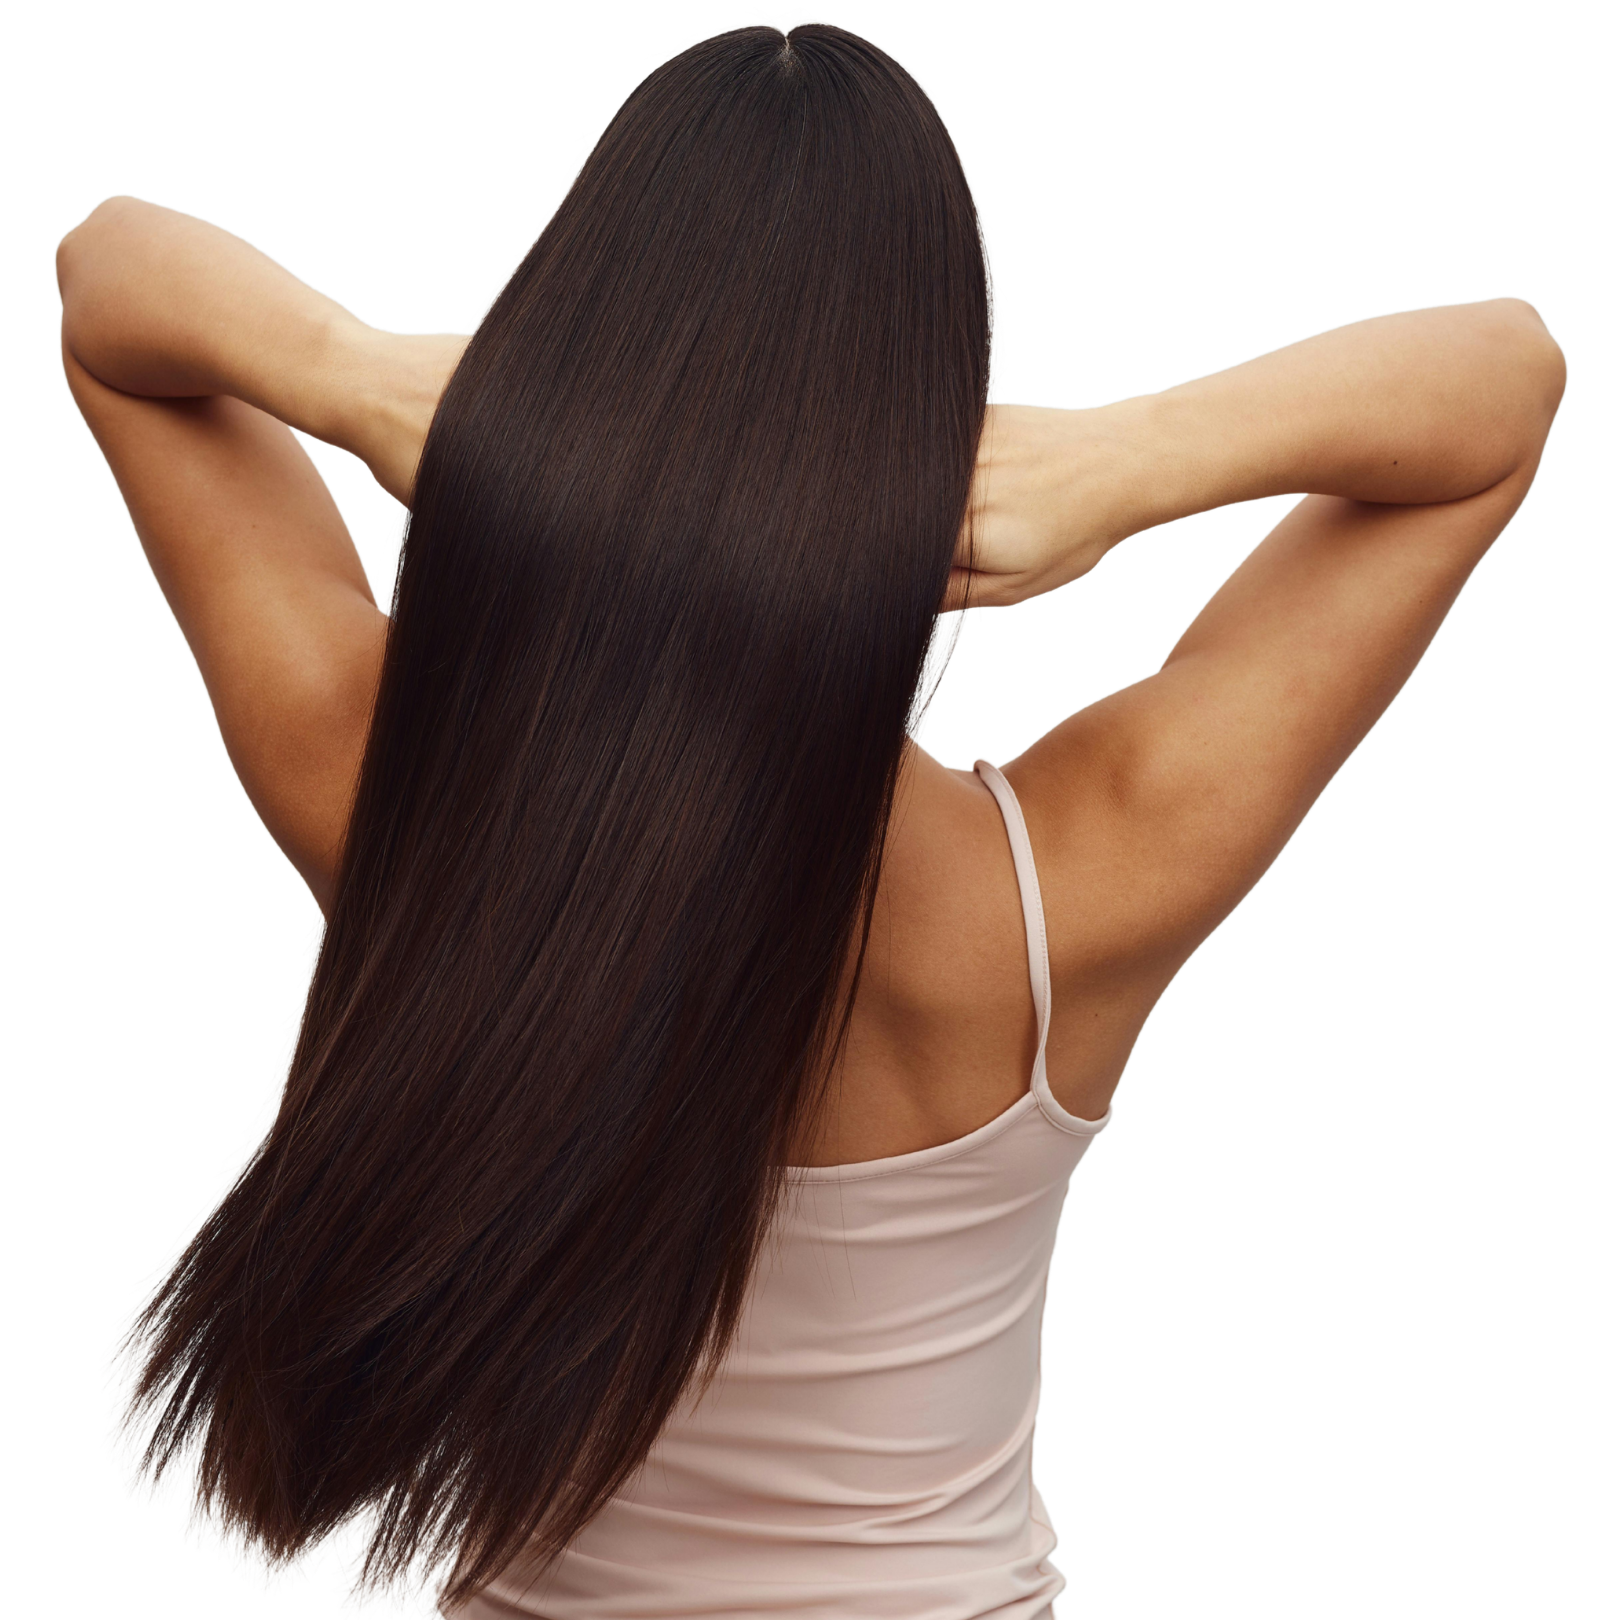
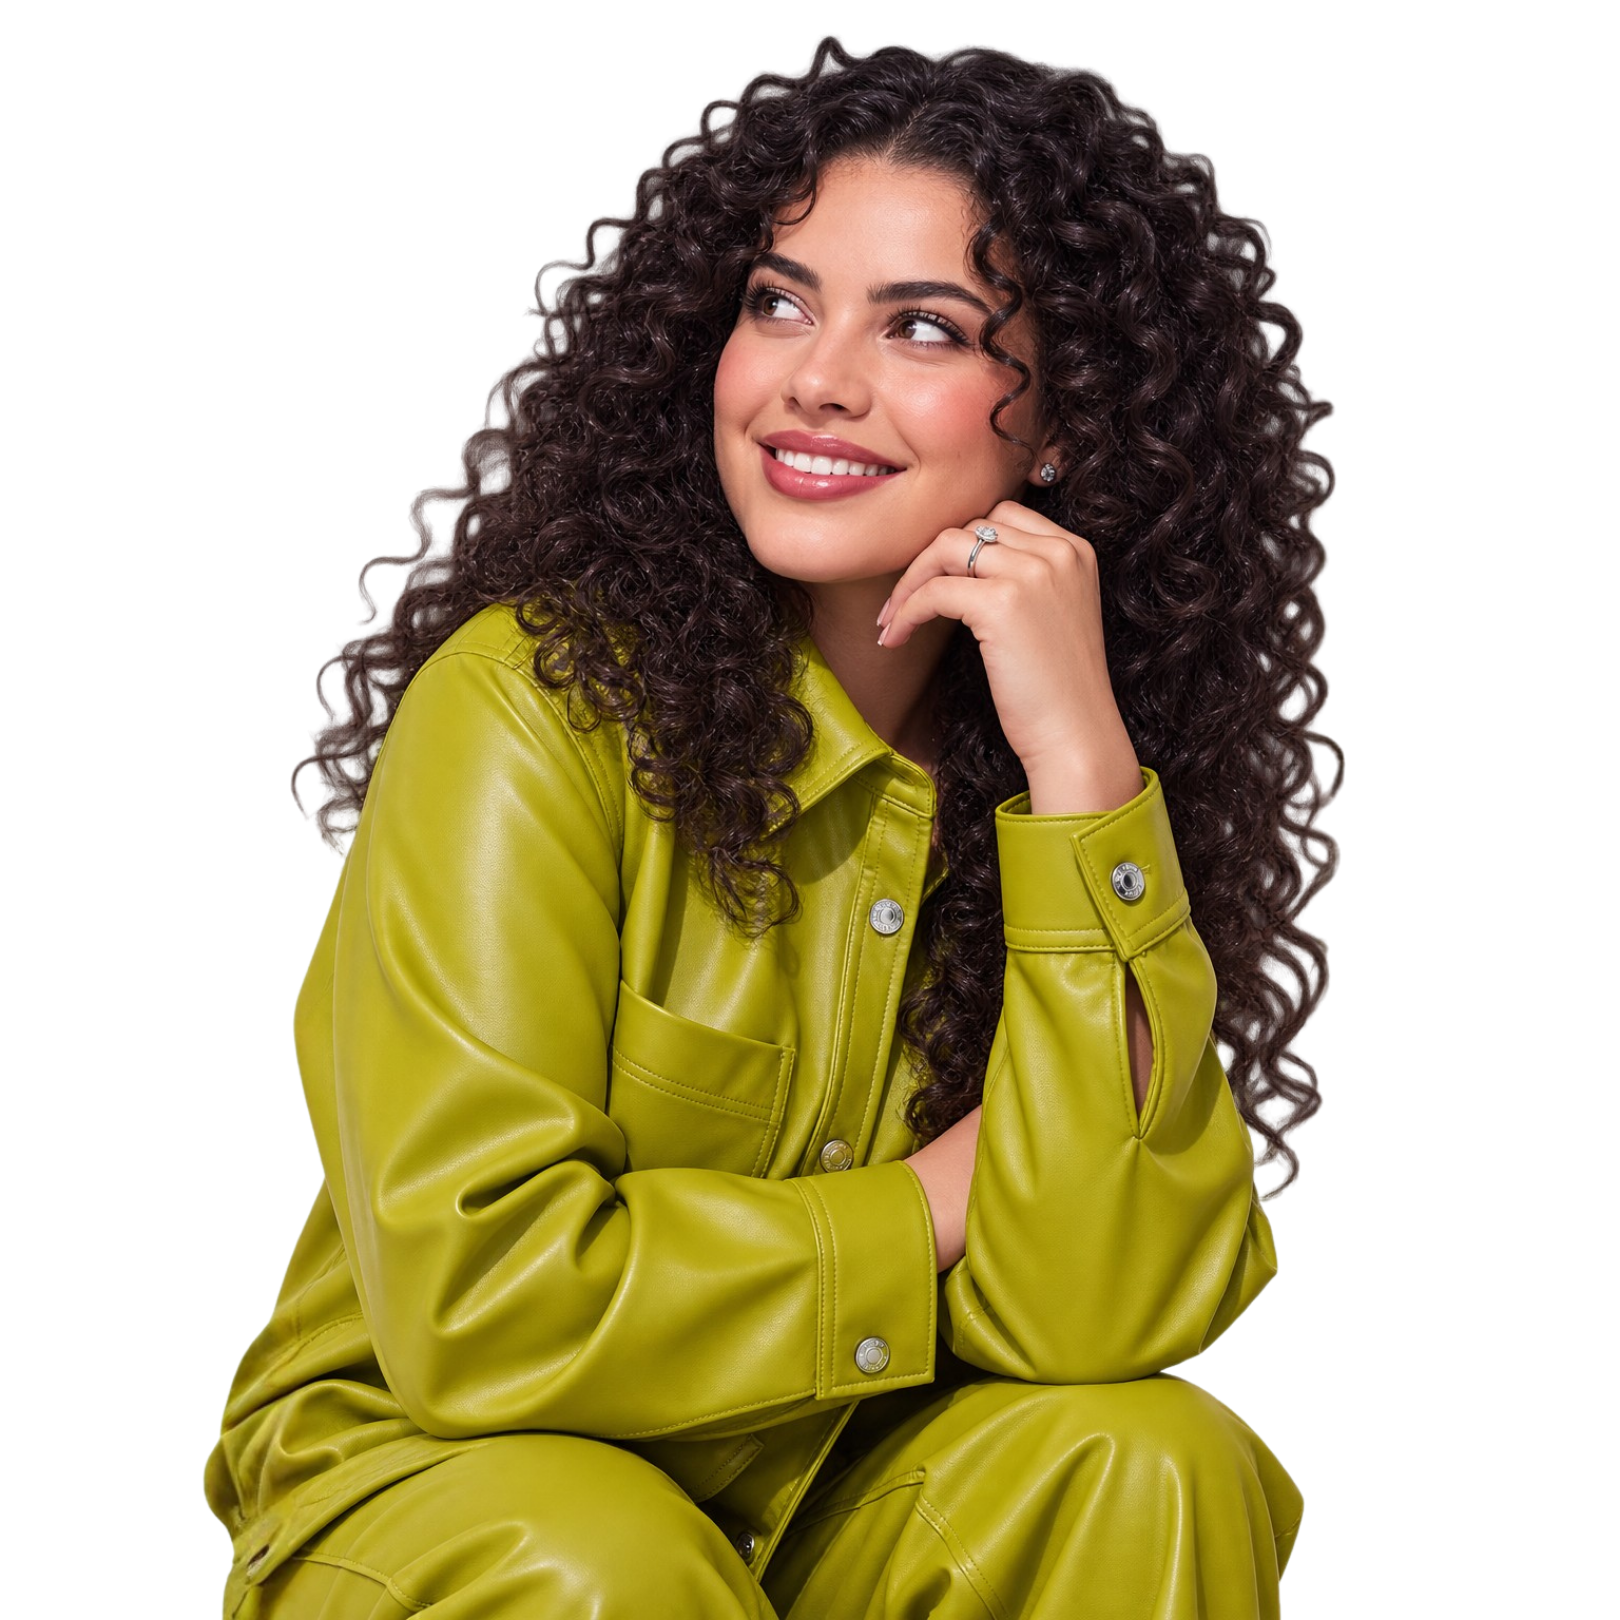
HomePage update

diff --git a/client/src/components/Home/ContactSection.jsx b/client/src/components/Home/ContactSection.jsx
@@ -1,11 +1,14 @@
 import React from "react";
 import { useForm, ValidationError } from "@formspree/react";
 
-export default function ContactSection() {
+export default function ContactSection({ id }) {
   const [state, handleSubmit] = useForm("xrenayve");
 
   return (
-    <section className="min-h-[calc(100vh-88px)] lg:h-[calc(100vh-88px)] w-full py-12 px-4 sm:px-6 lg:py-0 lg:px-0 lg:my-10 flex flex-col justify-center items-center gap-8 lg:gap-10">
+    <section
+      id={id}
+      className="min-h-[calc(100vh-88px)] lg:h-[calc(100vh-88px)] w-full py-12 px-4 sm:px-6 lg:py-0 lg:px-0 lg:my-10 flex flex-col justify-center items-center gap-8 lg:gap-10"
+    >
       <h3 className="text-(--pinkRose) text-2xl sm:text-3xl lg:text-4xl uppercase text-center">
         Comunícate <span className="font-clash-bold">con nosotros</span>
       </h3>
@@ -31,7 +34,7 @@ export default function ContactSection() {
               {/* Nombre */}
               <label
                 htmlFor="name"
-                className="w-full flex flex-col gap-2 text-(--blackBean) text-sm sm:text-base"
+                className="w-full flex flex-col gap-2 text-(--blackBean) text-sm sm:text-base font-ranade-bold"
               >
                 Nombre
                 <input
@@ -40,14 +43,14 @@ export default function ContactSection() {
                   type="text"
                   placeholder="María Perez"
                   required
-                  className="w-full border-b border-(--pinkRose) outline-none bg-transparent py-2"
+                  className="w-full border-b border-(--pinkRose) outline-none bg-transparent py-2 font-ranade-regular"
                 />
               </label>
 
               {/* Teléfono */}
               <label
                 htmlFor="phone"
-                className="w-full flex flex-col gap-2 text-(--blackBean) text-sm sm:text-base"
+                className="w-full flex flex-col gap-2 text-(--blackBean) text-sm sm:text-base font-ranade-bold"
               >
                 Número de teléfono
                 <input
@@ -55,7 +58,7 @@ export default function ContactSection() {
                   name="Phone"
                   placeholder="+58 000 000 00 00"
                   type="tel"
-                  className="w-full border-b border-(--pinkRose) outline-none bg-transparent py-2"
+                  className="w-full border-b border-(--pinkRose) outline-none bg-transparent py-2 font-ranade-regular"
                 />
               </label>
             </div>
@@ -63,7 +66,7 @@ export default function ContactSection() {
             {/* Email */}
             <label
               htmlFor="email"
-              className="flex flex-col gap-2 text-(--blackBean) text-sm sm:text-base"
+              className="flex flex-col gap-2 text-(--blackBean) text-sm sm:text-base font-ranade-bold"
             >
               Email
               <input
@@ -72,7 +75,7 @@ export default function ContactSection() {
                 type="email"
                 placeholder="email@ejemplo.com"
                 required
-                className="w-full border-b border-(--pinkRose) outline-none bg-transparent py-2"
+                className="w-full border-b border-(--pinkRose) outline-none bg-transparent py-2 font-ranade-regular"
               />
             </label>
 
@@ -85,7 +88,7 @@ export default function ContactSection() {
             {/* Mensaje */}
             <label
               htmlFor="message"
-              className="flex flex-col gap-2 text-(--blackBean) text-sm sm:text-base"
+              className="flex flex-col gap-2 text-(--blackBean) text-sm sm:text-base font-ranade-bold"
             >
               Mensaje
               <textarea
@@ -94,7 +97,7 @@ export default function ContactSection() {
                 rows="3"
                 placeholder="Cuéntanos cualquier cosa que quieras saber sobre Blume"
                 required
-                className="w-full border-b border-(--pinkRose) outline-none bg-transparent py-2 resize-none"
+                className="w-full border-b border-(--pinkRose) outline-none bg-transparent py-2 resize-none font-ranade-regular"
               />
             </label>
 

diff --git a/client/src/components/Footer/Footer.jsx b/client/src/components/Footer/Footer.jsx
@@ -1,4 +1,4 @@
-import { Link } from "react-router-dom";
+import { Link, useLocation, useNavigate } from "react-router-dom";
 
 export default function Footer() {
   const footerCategories = [
@@ -9,11 +9,29 @@ export default function Footer() {
     { name: "Diario", slug: "diario" },
   ];
 
+  const navigate = useNavigate();
+  const location = useLocation();
+
+  const handleContactClick = () => {
+    if (location.pathname === "/") {
+      document.getElementById("contact")?.scrollIntoView({
+        behavior: "smooth",
+        block: "start",
+      });
+    } else {
+      navigate("/?scrollTo=contact");
+    }
+  };
+
   return (
     <footer className="w-full bg-(--blackBean) flex flex-col justify-center items-center z-10">
       {/* Banner CTA Superior */}
-      <div className="min-h-[70vh] lg:h-[70vh] w-full bg-(--pinkRose) flex flex-col lg:flex-row justify-between items-center py-12 px-6 sm:px-12 lg:py-0 lg:px-0 overflow-hidden">
-        <div className="flex flex-col justify-center items-center lg:items-start gap-6 text-(--whiteBlume) text-center lg:text-left lg:pl-16 xl:pl-24 w-full lg:w-1/2">
+      <div className="relative min-h-[70vh] lg:h-[70vh] w-full flex flex-col lg:flex-row justify-between items-center pt-12 px-6 sm:px-12 lg:py-0 lg:px-0 overflow-hidden">
+        <img
+          src="/footer/footerbgd.png"
+          className="absolute inset-0 h-full w-full object-cover object-center"
+        />
+        <div className="flex flex-col justify-center items-center lg:items-start gap-6 text-(--whiteBlume) text-center lg:text-left lg:pl-16 xl:pl-24 w-full lg:w-1/2 z-10">
           <h4 className="w-full lg:w-[85%] xl:w-[70%] text-3xl sm:text-4xl lg:text-5xl leading-tight">
             Somos tus aliados para que luzcas espectacular
           </h4>
@@ -21,18 +39,18 @@ export default function Footer() {
             Contáctanos para agendar una cita y conocer más
           </p>
           <div className="w-full lg:w-[85%] xl:w-[70%] mt-2 lg:mt-0">
-            <a
-              href="#contact"
-              className="inline-block px-6 py-3 bg-(--whiteBlume) hover:bg-(--blackBean) text-(--blackBean) hover:text-(--whiteBlume) rounded-xl transition-colors text-sm sm:text-base font-medium"
-            >
+            <button
+              type="button"
+              onClick={handleContactClick}
+              className="inline-block px-6 py-3 bg-(--whiteBlume) hover:bg-(--blackBean) text-(--blackBean) hover:text-(--whiteBlume) rounded-xl transition-colors text-sm sm:text-base font-medium cursor-pointer">
               ¡Escríbenos!
-            </a>
+            </button>
           </div>
         </div>
         <img
           src="/footer/footer.png"
           alt="Footer Banner"
-          className="h-64 sm:h-80 lg:h-full object-cover object-center mt-8 lg:mt-0"
+          className="h-80 md:h-110 lg:h-full object-cover object-center mt-8 lg:mt-0 lg:pt-8 lg:pr-8 z-10"
         />
       </div>
 
@@ -99,7 +117,9 @@ export default function Footer() {
         </div>
 
         <div className="flex flex-col gap-3 sm:gap-5 font-ranade-regular lg:h-60">
-          <h4 className="text-base sm:text-lg font-clash-light">Sobre nosotros</h4>
+          <h4 className="text-base sm:text-lg font-clash-light">
+            Sobre nosotros
+          </h4>
           <ul className="text-xs sm:text-sm space-y-2 lg:space-y-1">
             <li>
               <Link

diff --git a/client/src/pages/HomePage.jsx b/client/src/pages/HomePage.jsx
@@ -1,13 +1,40 @@
-import React from 'react'
+import React, { useEffect } from "react";
+import { useSearchParams } from "react-router-dom";
 
-import Home from '../components/Home/Home'
-import CatalogSection from '../components/Home/CatalogSection'
-import BestSellers from '../components/Home/BestSellers'
-import Beneficios from '../components/Home/Beneficios'
-import AboutSection from '../components/Home/AboutSection'
-import ContactSection from '../components/Home/ContactSection'
+import Home from "../components/Home/Home";
+import CatalogSection from "../components/Home/CatalogSection";
+import BestSellers from "../components/Home/BestSellers";
+import Beneficios from "../components/Home/Beneficios";
+import AboutSection from "../components/Home/AboutSection";
+import ContactSection from "../components/Home/ContactSection";
 
 export default function HomePage() {
+  const [searchParams, setSearchParams] = useSearchParams();
+
+  useEffect(() => {
+    if (searchParams.get("scrollTo") !== "contact") {
+      return;
+    }
+
+    // Esperamos a que el contenido de Home esté renderizado
+    const timeout = setTimeout(() => {
+      const contactSection = document.getElementById("contact");
+
+      if (contactSection) {
+        contactSection.scrollIntoView({
+          behavior: "smooth",
+          block: "start",
+        });
+
+        // Limpiamos el parámetro de la URL
+        searchParams.delete("scrollTo");
+        setSearchParams(searchParams, { replace: true });
+      }
+    }, 100);
+
+    return () => clearTimeout(timeout);
+  }, [searchParams, setSearchParams]);
+
   return (
     <div>
       <Home />
@@ -15,7 +42,7 @@ export default function HomePage() {
       <BestSellers />
       <Beneficios />
       <AboutSection />
-      <ContactSection id="contact"/>
+      <ContactSection id="contact" />
     </div>
-  )
+  );
 }

diff --git a/client/src/components/Home/AboutSection.jsx b/client/src/components/Home/AboutSection.jsx
@@ -9,22 +9,9 @@ export default function AboutSection() {
       </h2>
 
       <p className="w-full sm:w-[90%] md:w-[85%] lg:w-[80%] text-base lg:text-lg text-center font-ranade-regular leading-relaxed md:leading-normal">
-        Fundada en 2022 en la vibrante Montreal,{" "}
-        <span className="text-(--orangeBlume) font-ranade-bold">Alcôve</span> es
-        una marca profesional de cuidado capilar dedicada a crear rutinas
-        personalizadas para todo tipo de cabello, incluyendo el rizado, ondulado
-        y afro. Formulamos y fabricamos{" "}
-        <span className="text-(--orangeBlume) font-ranade-bold">
-          champús, acondicionadores, productos de peinado
-        </span>{" "}
-        y tratamientos de alta calidad diseñados para nutrir, definir y proteger
-        tu cabello. Nuestra misión es ofrecer soluciones genuinas y efectivas
-        para el cuidado del cabello que brinden resultados reales, sin
-        artificios ni filtros. Comprometidos con la transparencia, la
-        accesibilidad y las prácticas libres de crueldad animal, Alcôve ofrece
-        un refugio de confianza para quienes buscan productos de cuidado capilar
-        de calidad profesional que celebren la individualidad y la belleza
-        natural.
+        Blume nace de la convicción de que{" "}
+        <span className="text-(--orangeBlume) font-ranade-Bold-italic">todo cabello merece florecer </span>
+         . Nuestro fuerte son los productos formulados con cuidado e intención, pensados para acercar tu cabello a su mejor versión — sin importar su volumen, su forma o su textura. Cada línea constituye una rutina completa que se adapta a ti, para que cada paso se sienta como un ritual de renovación y amor propio. Porque cuidar bien de tu físico no debe ser la excepción, es el punto de partida.
       </p>
     </section>
   );

diff --git a/client/src/components/Home/BestSellers.jsx b/client/src/components/Home/BestSellers.jsx
@@ -21,7 +21,7 @@ export default function BestSellers() {
   return (
     <div className="min-h-[calc(100vh-88px)] w-full p-6 lg:p-0 flex flex-col justify-center items-center gap-8 lg:gap-10 py-12 lg:py-0">
       <h2 className="text-(--orangeBlume) text-2xl sm:text-3xl lg:text-4xl uppercase text-center">
-        Nuestros Blumies <span className="font-clash-bold">Más vendidos</span>
+        Nuestros Productos <span className="font-clash-bold">Más vendidos</span>
       </h2>
 
       <ul className="grid grid-cols-2 sm:grid-cols-3 lg:flex lg:flex-wrap justify-center gap-4 sm:gap-6 lg:gap-8 w-full max-w-6xl">
@@ -38,10 +38,10 @@ export default function BestSellers() {
               />
 
               <div className="w-full flex flex-col gap-1 text-center lg:text-left">
-                <p className="text-sm lg:text-md font-medium line-clamp-2">
+                <p className="text-sm lg:text-md font-ranade-regular line-clamp-2">
                   {product.title}
                 </p>
-                <p className="text-xs lg:text-sm font-semibold">
+                <p className="text-xs lg:text-sm font-ranade-bold text-(--orangeBlume)">
                   ${product.price}
                 </p>
               </div>

diff --git a/client/src/index.css b/client/src/index.css
@@ -42,6 +42,14 @@
 }
 
 @font-face {
+  font-family: 'Ranade-BoldItalic';
+  src: url('./assets/Ranade/Ranade-BoldItalic.otf') format('opentype');
+  font-weight: normal;
+  font-style: normal;
+  font-display: swap;
+}
+
+@font-face {
   font-family: 'HomemadeApple-Regular';
   src: url('./assets/HomemadeApple-Regular.ttf') format('truetype');
   font-weight: normal;
@@ -56,6 +64,7 @@
   --font-ranade-regular: 'Ranade-Regular', system-ui, -apple-system, sans-serif;
   --font-ranade-bold: 'Ranade-Bold', system-ui, -apple-system, sans-serif;
   --font-ranade-italic: 'Ranade-Italic', system-ui, -apple-system, sans-serif;
+  --font-ranade-Bold-italic: 'Ranade-BoldItalic', system-ui, -apple-system, sans-serif;
   --font-homemade-apple: 'HomemadeApple-Regular', system-ui, -apple-system, sans-serif;
 }
 

diff --git a/client/src/components/Home/Home.jsx b/client/src/components/Home/Home.jsx
@@ -4,10 +4,9 @@ export default function Home() {
   return (
     <header className="relative h-[calc(100vh-88px)] w-full mt-22">
       <Link>
-        <img
-          src="Home/banner.jpg"
-          className="absolute inset-0 h-full w-full object-cover object-center"
-        />
+        <img className="block md:hidden lg:hidden absolute inset-0 h-full w-full object-cover object-center" src="/Home/banner3.png" />
+        <img className="hidden md:block lg:hidden absolute inset-0 h-full w-full object-cover object-center" src="/Home/banner2.png" />
+        <img className="hidden lg:block absolute inset-0 h-full w-full object-cover object-center" src="/Home/banner.png" />
       </Link>
     </header>
   );

diff --git a/client/src/components/Home/Beneficios.jsx b/client/src/components/Home/Beneficios.jsx
@@ -16,10 +16,10 @@ export default function Beneficios() {
   return (
     <div className="bg-(--citronLight) min-h-[25rem] lg:h-100 w-full py-12 px-6 md:py-16 md:px-10 lg:py-20 flex flex-col justify-center items-center gap-8 md:gap-12 lg:gap-20">
       <h3 className="text-2xl sm:text-3xl lg:text-4xl text-(--citron) uppercase text-center">
-        Nos preocupamos por{" "}
         <span className="font-clash-bold block sm:inline">
-          la salud de tu cabello
+        ALcove{" "}
         </span>
+          es...
       </h3>
 
       <div className="w-full grid grid-cols-3 md:grid-cols-6 lg:flex lg:justify-center items-center gap-4 sm:gap-6 lg:gap-10">
